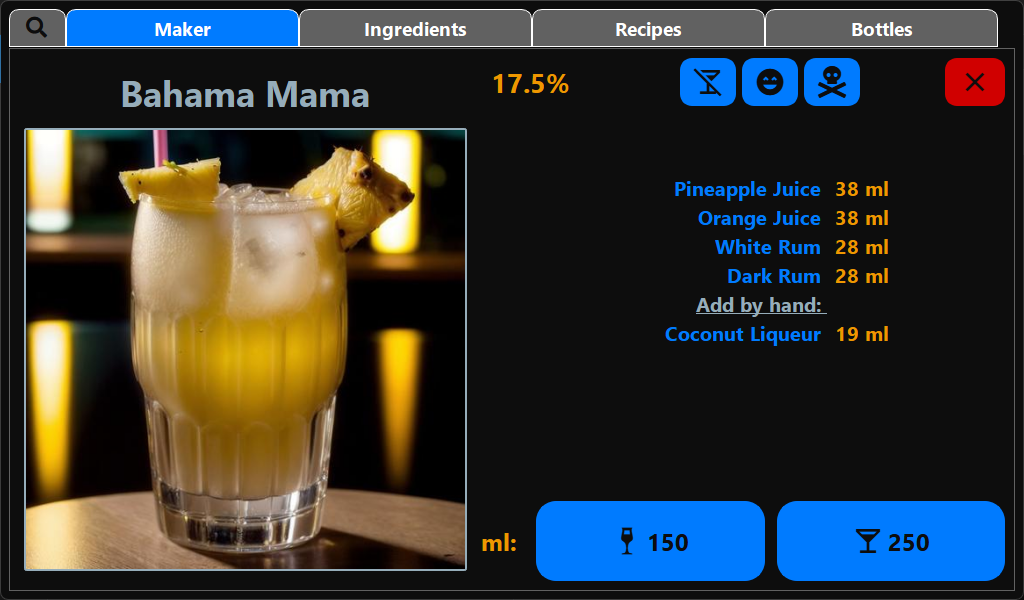
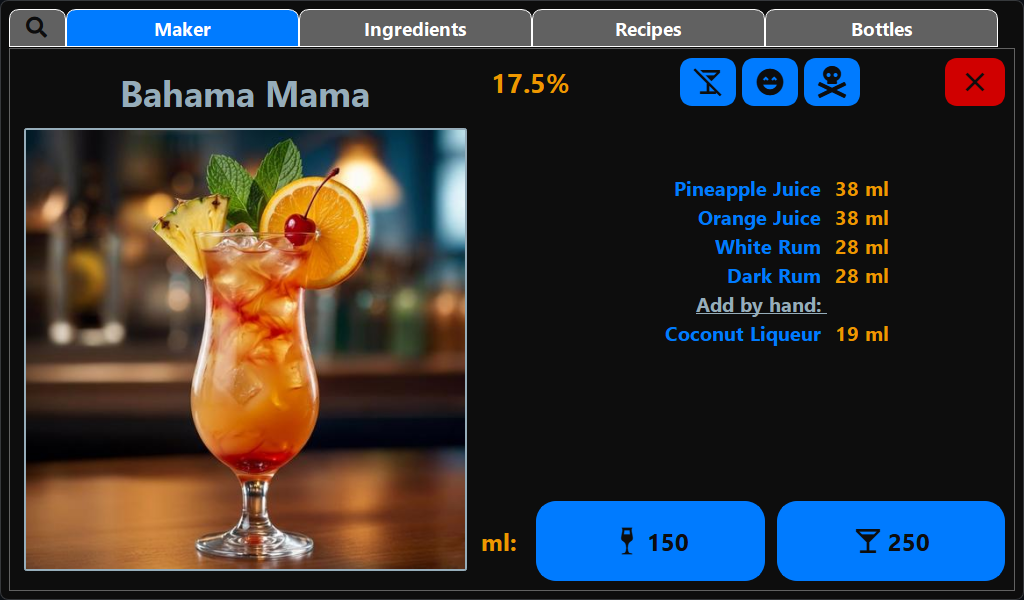
update docs for images and features

Changed region(s): [[0.0, 0.21, 0.4688, 0.96]]

diff --git a/docs/features.md b/docs/features.md
@@ -7,6 +7,8 @@ Usually, updating to the latest version is always a good idea.
 
 | Version     | Feature Description                                                                                                  |
 | :---------- | :------------------------------------------------------------------------------------------------------------------- |
+| **v4.6.0**  | Scale guided hand add process                                                                                        |
+| **v4.5.0**  | Greatly improve cocktail images                                                                                      |
 | **v4.4.0**  | Add virtual keyboard option to v2                                                                                    |
 | **v4.3.0**  | Add motorkit dispenser                                                                                               |
 | **v4.2.0**  | Add v1 Portrait Mode                                                                                                 |